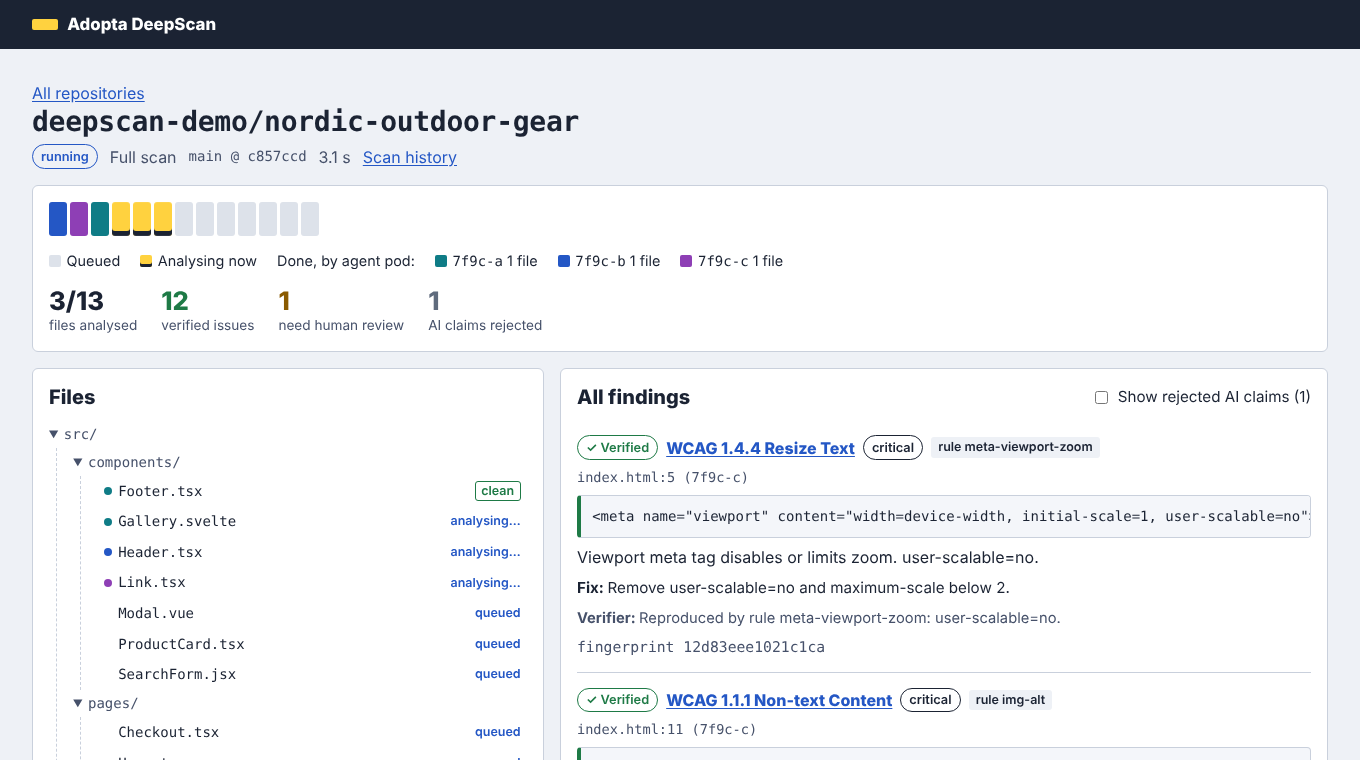
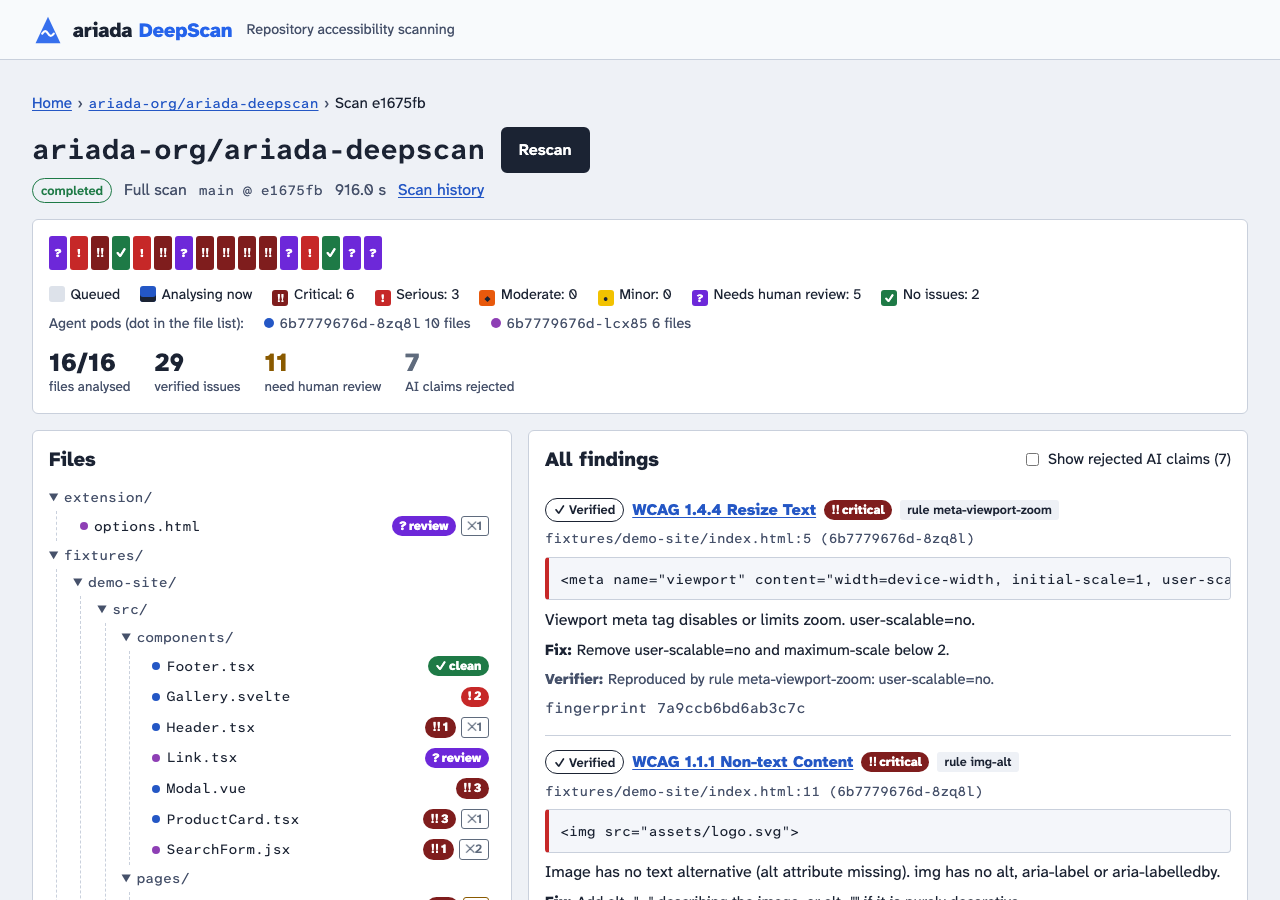
Refresh the report: current screenshots, pinned image versions, regenerated PDF
The dashboard and extension screenshots still showed the old product name;
both are retaken from a fresh kind cluster scanning with qwen2.5-coder:7b.
The PDF drops the text copy of the architecture diagram, which the picture
above it already carries.

diff --git a/docs/REPORT.md b/docs/REPORT.md
@@ -2,7 +2,7 @@
 
 *PA2577 Applied Cloud Computing and Big Data · Alekszandr Bricskin*
 
-- Source code and Kubernetes deployment: https://github.com/ariada-org/ariada-deepscan (`k8s/` holds the manifests; images on Docker Hub as [`ariadaorg/deepscan-<service>:1.0.0`](https://hub.docker.com/u/ariadaorg))
+- Source code and Kubernetes deployment: https://github.com/ariada-org/ariada-deepscan (`k8s/` holds the manifests; images on Docker Hub as [`ariadaorg/deepscan-<service>`](https://hub.docker.com/u/ariadaorg), versions pinned in `k8s/kustomization.yaml`)
 - Video: `<link to the recording>`
 
 ## 1. What the software does
